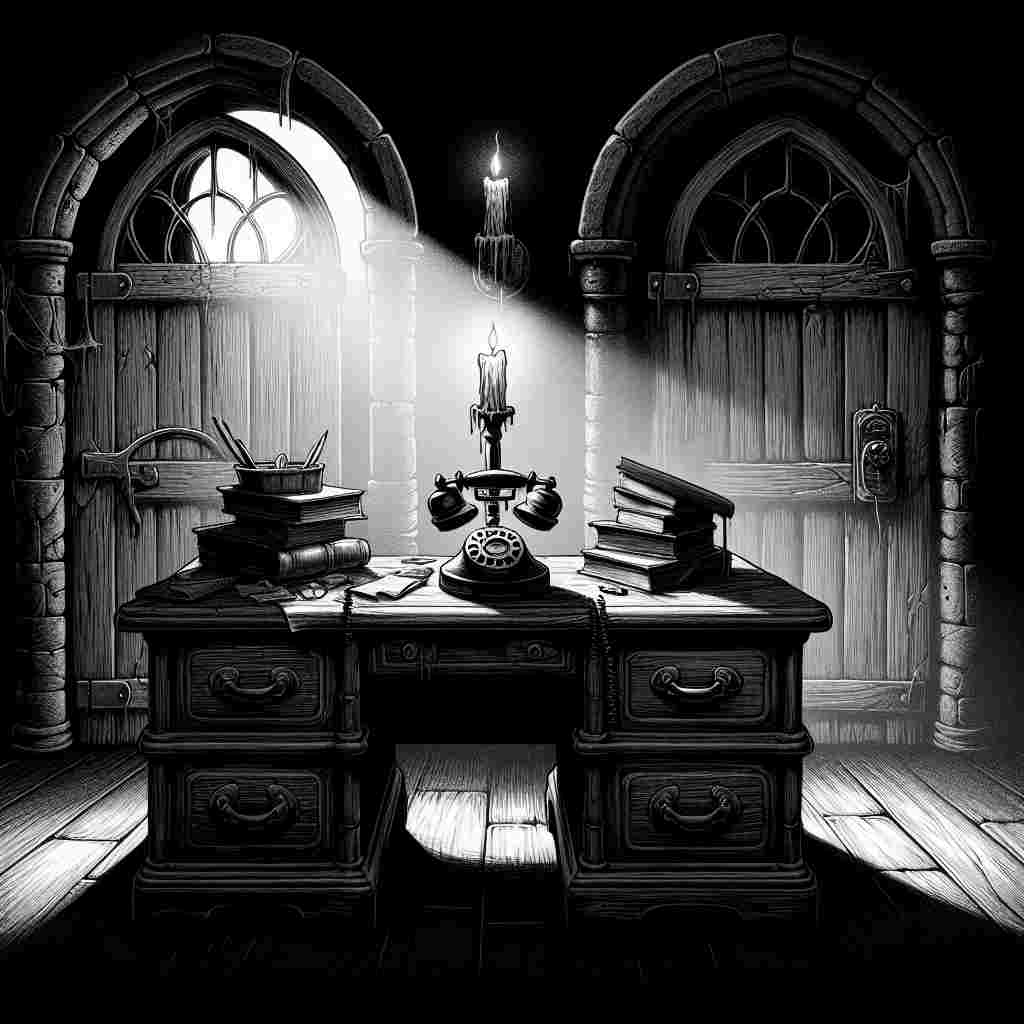
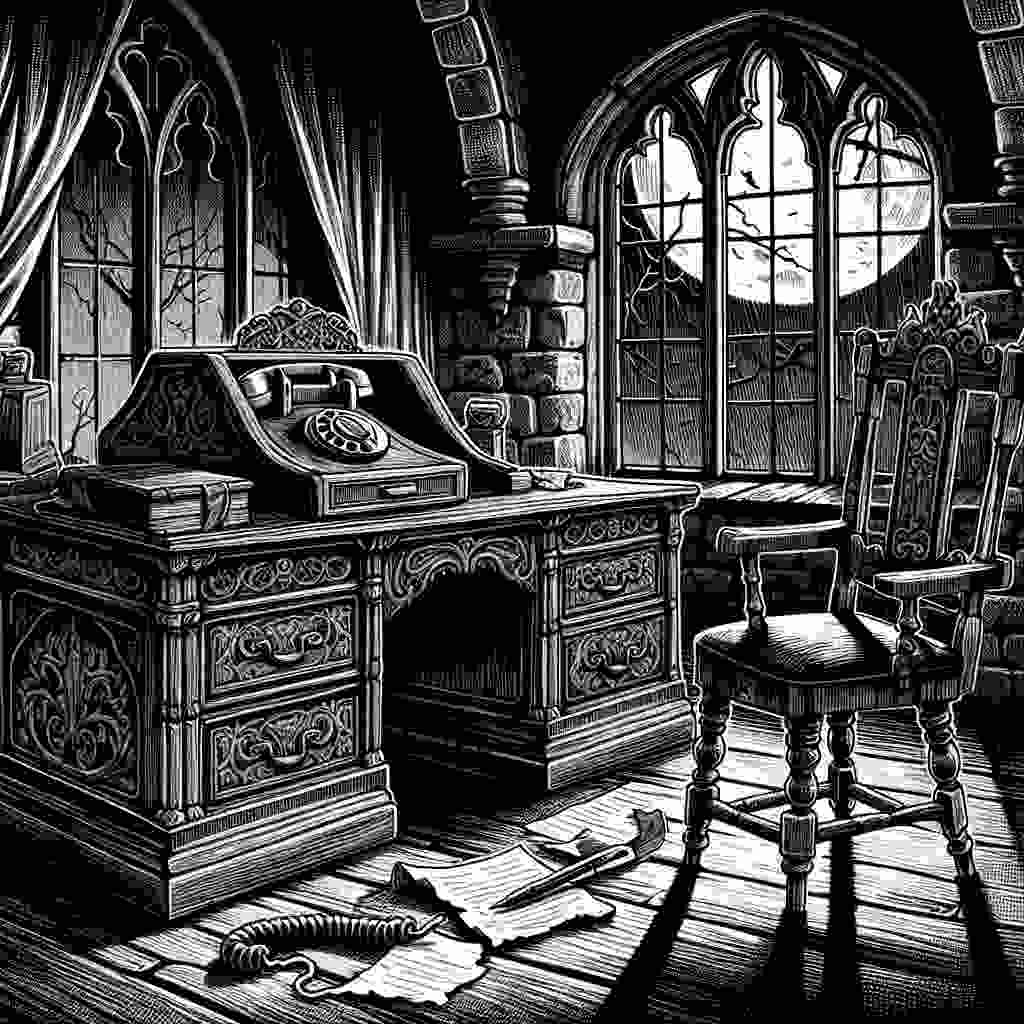
Spuk fertig

diff --git a/00Informatik/00Informatik7/Spukschloss/index.html b/00Informatik/00Informatik7/Spukschloss/index.html
@@ -5,18 +5,18 @@
     <meta name="viewport" content="width=device-width, initial-scale=1.0">
     <title>Spukschloss</title>
 </head>
-<body>
+<body style="margin: 0; font-family: Arial, sans-serif;">
 
-   <h1 style="text-align: center; margin-top: 20px;">Spukschloss</h1>
-   <img src="Schloss.jpg" alt="Spukschloss" style="width: 100vh; height: 60vh;display: block;margin: auto">
+    <h1 style="text-align: center; margin-top: 20px;">Hypertexte - vernetzte Texte</h1>
+    <p>
+    Mach dich auf die Suche nach einem funktionierenden Telefon in einem Spukschloss!<br>
+    Aber pass auf, das Schloss ist sehr unübersichtlich.<br>
+    Zum Glück findest du am Eingang einen Plan, in dem alle Räume verzeichnet sind:<br>
+    <img src="Plan.png" alt="Plan" style="width: 100vh; height: 60vh;display: block;margin: 0 auto">
+    Zeichne die Verbindungen zwischen den einzelnen Räumen in diesen Plan ein. 
 
-    <p style="text-align: center; margin: 20px; font-size: 16px;">
-        So ein Mist - dein Fahrrad hat einen Platten und du hast kein Handy dabei.<br>
-        Zum Glück stehst du direkt vor diesem vertrauenserweckenden Schloss.<br>
-        Die haben sicher ein Telefon, mit dem du deine Eltern anrufen kannst.<br>
-    
-        <a href="Eingangshalle.html">Gehe hinein</a><br>
+    <a href="Spukschloss.html">Hier geht's zum Schloss.</a><br>
+     
     </p>
-
 </body>
 </html>

diff --git a/00Informatik/00Informatik7/Spukschloss/Billardzimmer.html b/00Informatik/00Informatik7/Spukschloss/Billardzimmer.html
@@ -1,0 +1,24 @@
+<!DOCTYPE html>
+<html lang="de">
+<head>
+    <meta charset="UTF-8">
+    <meta name="viewport" content="width=device-width, initial-scale=1.0">
+    <title>Spukschloss</title>
+</head>
+<body style="margin: 0; font-family: Arial, sans-serif;">
+
+    <h1 style="text-align: center; margin-top: 20px;">Billardzimmer</h1>
+    <img src="Billardzimmer.jpg" alt="Raum" style="width: 100vh;height: 60vh;display: block;margin: 0 auto">
+
+    <p style="text-align: center; margin: 20px; font-size: 16px;">
+      <b>Knarrz - Schepper - Krach</b><br><br>
+      Die Türe ist hinter dir ins Schloss gefallen.<br>
+      Hoppla, sie hat auf der Innenseite keine Klinke.<br>
+      Aber wie sagte schon Genosse Honecker? "Vorwärts immer, rückwärts nimmer!"<br>
+      <a href="Bibliothek.html">Gehe nach links.</a><br>
+      <a href="Buero.html">Gehe nach rechts.</a>
+     
+
+    </p>
+</body>
+</html>

diff --git a/00Informatik/00Informatik7/Spukschloss/Stopp.html b/00Informatik/00Informatik7/Spukschloss/Stopp.html
@@ -1,0 +1,24 @@
+<!DOCTYPE html>
+<html lang="de">
+<head>
+    <meta charset="UTF-8">
+    <meta name="viewport" content="width=device-width, initial-scale=1.0">
+    <title>Spukschloss</title>
+</head>
+<body>
+
+   <h1 style="text-align: center; margin-top: 20px;">Stopp</h1>
+   <img src="Stopp.jpg" alt="Stopp" style="width: 100vh; height: 60vh;display: block;margin: auto">
+
+    <p style="text-align: center; margin: 20px; font-size: 16px;">
+        Bist du wahnsinnig? <br>
+        Man geht doch nicht einfach in fremde Häuser oder Schlösser, nur weil die Türe offen steht.<br>
+        Was da alles passieren kann.<br>
+        <a href="Spukschloss.html">Upps, du hast Recht - dann bleibe ich lieber draußen.</a><br>
+        <a href="Eingangshalle.html">So ein Quatsch, ist doch nur ein Spiel. Was soll schon passieren.</a><br>
+   
+    </p>
+
+</body>
+</html>
+

diff --git a/00Informatik/00Informatik7/Spukschloss/Bibliothek.html b/00Informatik/00Informatik7/Spukschloss/Bibliothek.html
@@ -1,0 +1,23 @@
+<!DOCTYPE html>
+<html lang="de">
+<head>
+    <meta charset="UTF-8">
+    <meta name="viewport" content="width=device-width, initial-scale=1.0">
+    <title>Spukschloss</title>
+</head>
+<body style="margin: 0; font-family: Arial, sans-serif;">
+
+    <h1 style="text-align: center; margin-top: 20px;">Bibliothek</h1>
+    <img src="Bibliothek.jpg" alt="Raum" style="width: 100vh;height: 60vh;display: block;margin: 0 auto">
+
+    <p style="text-align: center; margin: 20px; font-size: 16px;">
+      Super, wir kommen der Sache schon näher.<br>
+      In den Regalen stehen reihenweise historische Telefonbücher.<br>
+      Dann muss es auch in irgend einem Raum ein Telefon geben.<br>
+      <a href="Eingangshalle.html">Gehe geradeaus.</a><br>
+      <a href="Billardzimmer.html">Gehe zurück ins Billardzimmer.</a>
+     
+
+    </p>
+</body>
+</html>

diff --git a/00Informatik/00Informatik7/Spukschloss/Speisesaal.html b/00Informatik/00Informatik7/Spukschloss/Speisesaal.html
@@ -1,0 +1,24 @@
+<!DOCTYPE html>
+<html lang="de">
+<head>
+    <meta charset="UTF-8">
+    <meta name="viewport" content="width=device-width, initial-scale=1.0">
+    <title>Spukschloss</title>
+</head>
+<body>
+
+   <h1 style="text-align: center; margin-top: 20px;">Speisesaal</h1>
+   <img src="Speisesaal.jpg" alt="Speisesaal" style="width: 100vh; height: 60vh;display: block;margin: auto">
+
+    <p style="text-align: center; margin: 20px; font-size: 16px;">
+        Der Hausherr erwartet wohl Gäste.<br>
+        Die Tische sind festlich gedeckt und an der Seite stehen Tabletts mit Speisen und Getränken.<br>
+        Am Ende des langes Saals siehst du eine Türe<br>
+        <a href="Kueche.html">Geradeaus durch die Tür</a><br>
+        <a href="Eingangshalle.html">Zurück in die Eingangshalle</a><br>
+   
+    </p>
+
+</body>
+</html>
+

diff --git a/00Informatik/00Informatik7/Spukschloss/Besenkammer.html b/00Informatik/00Informatik7/Spukschloss/Besenkammer.html
@@ -1,0 +1,21 @@
+<!DOCTYPE html>
+<html lang="de">
+<head>
+    <meta charset="UTF-8">
+    <meta name="viewport" content="width=device-width, initial-scale=1.0">
+    <title>Spukschloss</title>
+</head>
+<body style="margin: 0; font-family: Arial, sans-serif;">
+
+    <h1 style="text-align: center; margin-top: 20px;">Besenkammer</h1>
+    <img src="Besenkammer.jpg" alt="Spukschloss" style="width: 100vh; height: 60vh;display: block;margin: 0 auto">
+
+    <p style="text-align: center; margin: 20px; font-size: 16px;">
+      Der Schlossherr hat entweder einen Putzfimmel oder er betreibt einen schwunghaften Handel mit Kehrgeräten.<br>
+      Einen Telefonanschluss hat diese Kammer leider nicht.<br>
+     <a href="Eingangshalle.html">Gehe zurück in die Eingangshalle</a><br>
+     
+
+    </p>
+</body>
+</html>

diff --git a/00Informatik/00Informatik7/Spukschloss/Spukschloss.html b/00Informatik/00Informatik7/Spukschloss/Spukschloss.html
@@ -1,0 +1,23 @@
+<!DOCTYPE html>
+<html lang="de">
+<head>
+    <meta charset="UTF-8">
+    <meta name="viewport" content="width=device-width, initial-scale=1.0">
+    <title>Spukschloss</title>
+</head>
+<body>
+
+   <h1 style="text-align: center; margin-top: 20px;">Spukschloss</h1>
+   <img src="Spukschloss.jpg" alt="Spukschloss" style="width: 100vh; height: 60vh;display: block;margin: auto">
+
+    <p style="text-align: center; margin: 20px; font-size: 16px;">
+        So ein Mist - dein Fahrrad hat einen Platten und du hast kein Handy dabei.<br>
+        Zum Glück stehst du direkt vor diesem vertrauenserweckenden Schloss.<br>
+        Die haben sicher ein Telefon, mit dem du deine Eltern anrufen kannst.<br>
+    
+        <a href="Stopp.html">Gehe hinein</a><br>
+    </p>
+
+</body>
+</html>
+

diff --git a/00Informatik/00Informatik7/Spukschloss/Telefon.html b/00Informatik/00Informatik7/Spukschloss/Telefon.html
@@ -1,0 +1,23 @@
+<!DOCTYPE html>
+<html lang="de">
+<head>
+    <meta charset="UTF-8">
+    <meta name="viewport" content="width=device-width, initial-scale=1.0">
+    <title>Spukschloss</title>
+</head>
+<body style="margin: 0; font-family: Arial, sans-serif;">
+
+    <h1 style="text-align: center; margin-top: 20px;">Telefon</h1>
+    <img src="Telefon.jpg" alt="Raum" style="width: 100vh;height: 60vh;display: block;margin: 0 auto">
+
+    <p style="text-align: center; margin: 20px; font-size: 16px;">
+      He, das hat ja nicht einmal Tasten oder einen Touchscreen.<br>
+      Wie soll man damit telefonieren?<br>
+      Da suche ich lieber nach einem richtigen Telefon<br>
+      <a href="Billardzimmer.html">Gehe wieder zurück ins Billardzimmer.</a>
+     
+
+    </p>
+</body>
+</html>
+

diff --git a/00Informatik/00Informatik7/Spukschloss/Buero.html b/00Informatik/00Informatik7/Spukschloss/Buero.html
@@ -1,0 +1,23 @@
+<!DOCTYPE html>
+<html lang="de">
+<head>
+    <meta charset="UTF-8">
+    <meta name="viewport" content="width=device-width, initial-scale=1.0">
+    <title>Spukschloss</title>
+</head>
+<body style="margin: 0; font-family: Arial, sans-serif;">
+
+    <h1 style="text-align: center; margin-top: 20px;">Buero</h1>
+    <img src="Buero.jpg" alt="Raum" style="width: 100vh;height: 60vh;display: block;margin: 0 auto">
+
+    <p style="text-align: center; margin: 20px; font-size: 16px;">
+      Ein Schreibtisch mit einem Telefon.<br>
+      Das muss ich mir genauer anschauen.<br>
+      <a href="Telefon.html">Gehe zum Telefon.</a><br>
+      <a href="Billardzimmer.html">Gehe wieder zurück.</a>
+     
+
+    </p>
+</body>
+</html>
+

diff --git a/00Informatik/00Informatik7/Spukschloss/Kueche.html b/00Informatik/00Informatik7/Spukschloss/Kueche.html
@@ -1,0 +1,23 @@
+<!DOCTYPE html>
+<html lang="de">
+<head>
+    <meta charset="UTF-8">
+    <meta name="viewport" content="width=device-width, initial-scale=1.0">
+    <title>Spukschloss</title>
+</head>
+<body>
+
+   <h1 style="text-align: center; margin-top: 20px;">Küche</h1>
+   <img src="Kueche.jpg" alt="Kueche" style="width: 100vh; height: 60vh;display: block;margin: auto">
+
+    <p style="text-align: center; margin: 20px; font-size: 16px;">
+        Eine Küche ohne Telefon. <br>
+        Aber wenigstens gibt es eine Türe, die dich weiterbringt.<br>
+        <a href="Hinterhof.html">Weiter durch die Türe</a><br>
+        <a href="Speisesaal.html">Zurück in den Speisesaal</a><br>
+   
+    </p>
+
+</body>
+</html>
+

diff --git a/00Informatik/00Informatik7/Spukschloss/Hinterhof.html b/00Informatik/00Informatik7/Spukschloss/Hinterhof.html
@@ -1,0 +1,22 @@
+<!DOCTYPE html>
+<html lang="de">
+<head>
+    <meta charset="UTF-8">
+    <meta name="viewport" content="width=device-width, initial-scale=1.0">
+    <title>Spukschloss</title>
+</head>
+<body>
+
+   <h1 style="text-align: center; margin-top: 20px;">Hinterhof</h1>
+   <img src="Hinterhof.jpg" alt="Hinterhof" style="width: 100vh; height: 60vh;display: block;margin: auto">
+
+    <p style="text-align: center; margin: 20px; font-size: 16px;">
+        Hier geht es nicht weiter.<br>
+        Du musst wieder zurück.<br>
+        <a href="Kueche.html">Zurück in die Küche.</a><br>
+      
+    </p>
+
+</body>
+</html>
+

diff --git a/00Informatik/00Informatik7/Spukschloss/Eingangshalle.html b/00Informatik/00Informatik7/Spukschloss/Eingangshalle.html
@@ -14,9 +14,9 @@
       Hallo, ist das wer?<br>
       Das Schloss wirkt ziemlich verlassen. Na ja, du suchst ja nur ein Telefon.<br>
      <a href="Galerie.html">Gehe hinauf</a><br>
-     <a href="Eingangshalle.html">Gehe nach rechts</a><br>
-     <a href="Eingangshalle.html">Gehe nach links</a><br>
-     <a href="index.html">Gehe zurück</a><br>
+     <a href="Speisesaal.html">Gehe nach rechts</a><br>
+     <a href="Besenkammer.html">Gehe nach links</a><br>
+     <a href="Spukschloss.html">Verlasse das Schloss wieder</a><br>
      
 
     </p>
